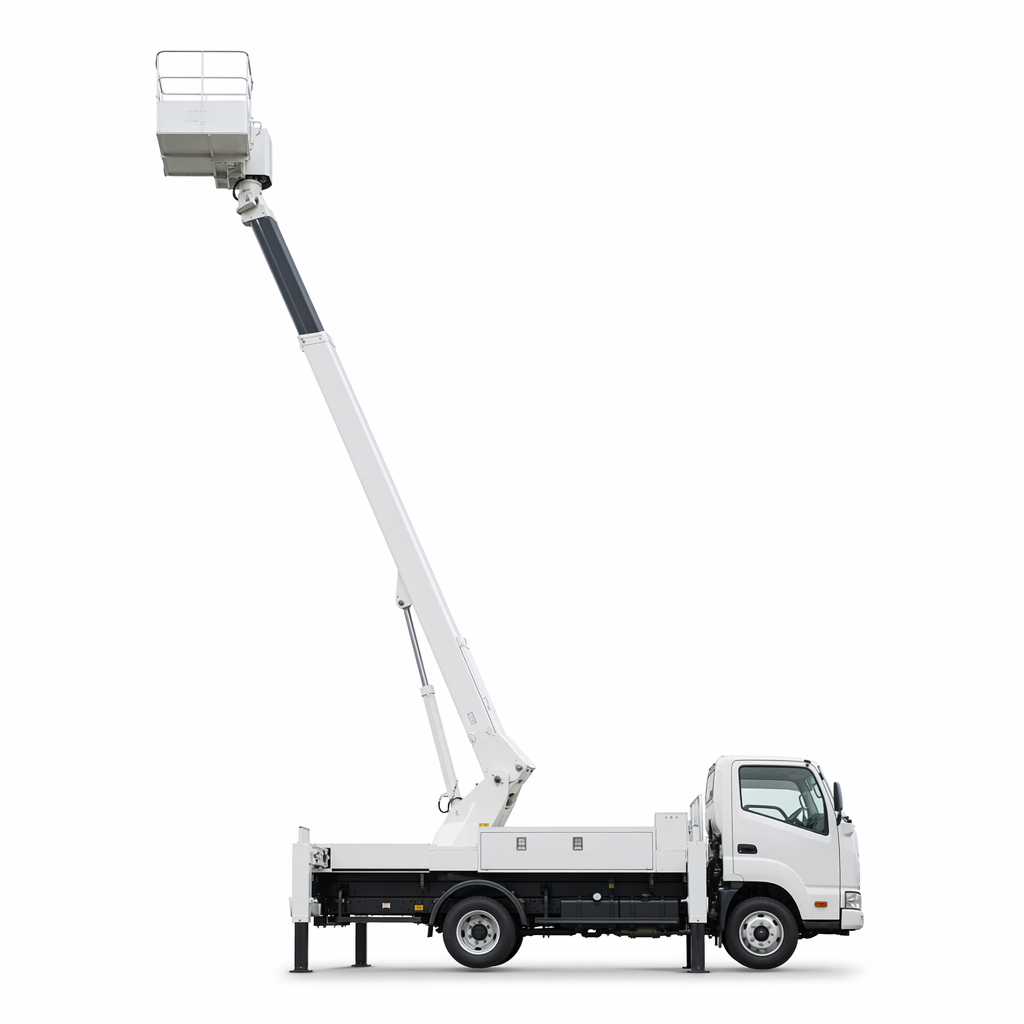
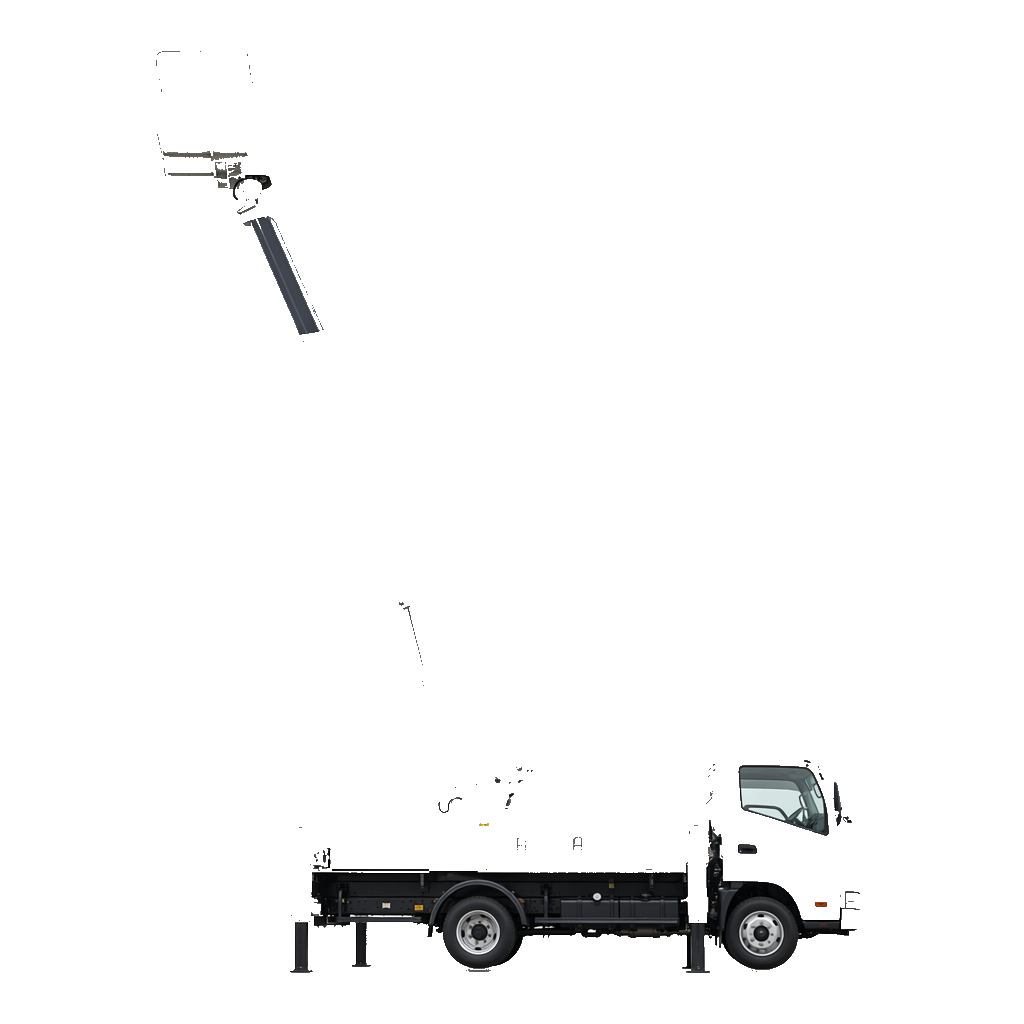
fix(kittoku): adjust vehicle images and footer map

Changed region(s): [[0.2812, 0.25, 0.8438, 0.9062], [0.2812, 0.9375, 0.8438, 0.9688], [0.1562, 0.0625, 0.2812, 0.25]]

diff --git a/frontend/src/app/artifacts/kittoku/components/site-footer.tsx b/frontend/src/app/artifacts/kittoku/components/site-footer.tsx
@@ -1,6 +1,9 @@
 import Link from "next/link";
-import { Phone, MapPin, Mail, Clock } from "lucide-react";
+import { Clock, Mail, MapPin, Phone } from "lucide-react";
 import { Logo } from "./logo";
+
+const MAP_SRC =
+  "https://www.google.com/maps?q=%E9%B3%A5%E5%8F%96%E7%9C%8C%E7%B1%B3%E5%AD%90%E5%B8%82%E5%8F%A4%E8%B1%8A%E5%8D%83775-6&output=embed";
 
 export function SiteFooter() {
   return (
@@ -30,7 +33,7 @@ export function SiteFooter() {
             <div className="flex items-start gap-2 text-sm text-white/80">
               <Clock className="h-4 w-4 shrink-0 mt-0.5" />
               <div>
-                <div>平日 8:00〜17:00</div>
+                <div>平日 8:00-17:00</div>
                 <div className="text-xs text-white/60">土日祝休</div>
               </div>
             </div>
@@ -53,6 +56,16 @@ export function SiteFooter() {
                 <div>〒689-3537</div>
                 <div>鳥取県米子市古豊千775-6</div>
               </div>
+            </div>
+            <div className="relative overflow-hidden rounded-sm border border-white/15 bg-white/5 aspect-[16/9]">
+              <iframe
+                src={MAP_SRC}
+                loading="lazy"
+                referrerPolicy="no-referrer-when-downgrade"
+                allowFullScreen
+                className="absolute inset-0 h-full w-full border-0"
+                title="吉川特装 所在地"
+              />
             </div>
           </div>
 

diff --git a/frontend/src/app/artifacts/kittoku/page.tsx b/frontend/src/app/artifacts/kittoku/page.tsx
@@ -218,7 +218,6 @@ export default function YoshikawaHomePage() {
       <ManufacturersSection />
       <VehiclesSection />
       <FlowSection />
-      <CompanyBriefSection />
       <CareersCtaSection />
     </LpShell>
   );
@@ -360,7 +359,7 @@ function VehiclesSection() {
                   src={v.image}
                   alt={v.label}
                   fill
-                  className="object-cover group-hover:scale-[1.03] transition-transform duration-300"
+                  className="object-contain p-3 group-hover:scale-[1.03] transition-transform duration-300"
                   sizes="(max-width: 640px) 100vw, (max-width: 1024px) 50vw, 33vw"
                 />
               </div>
